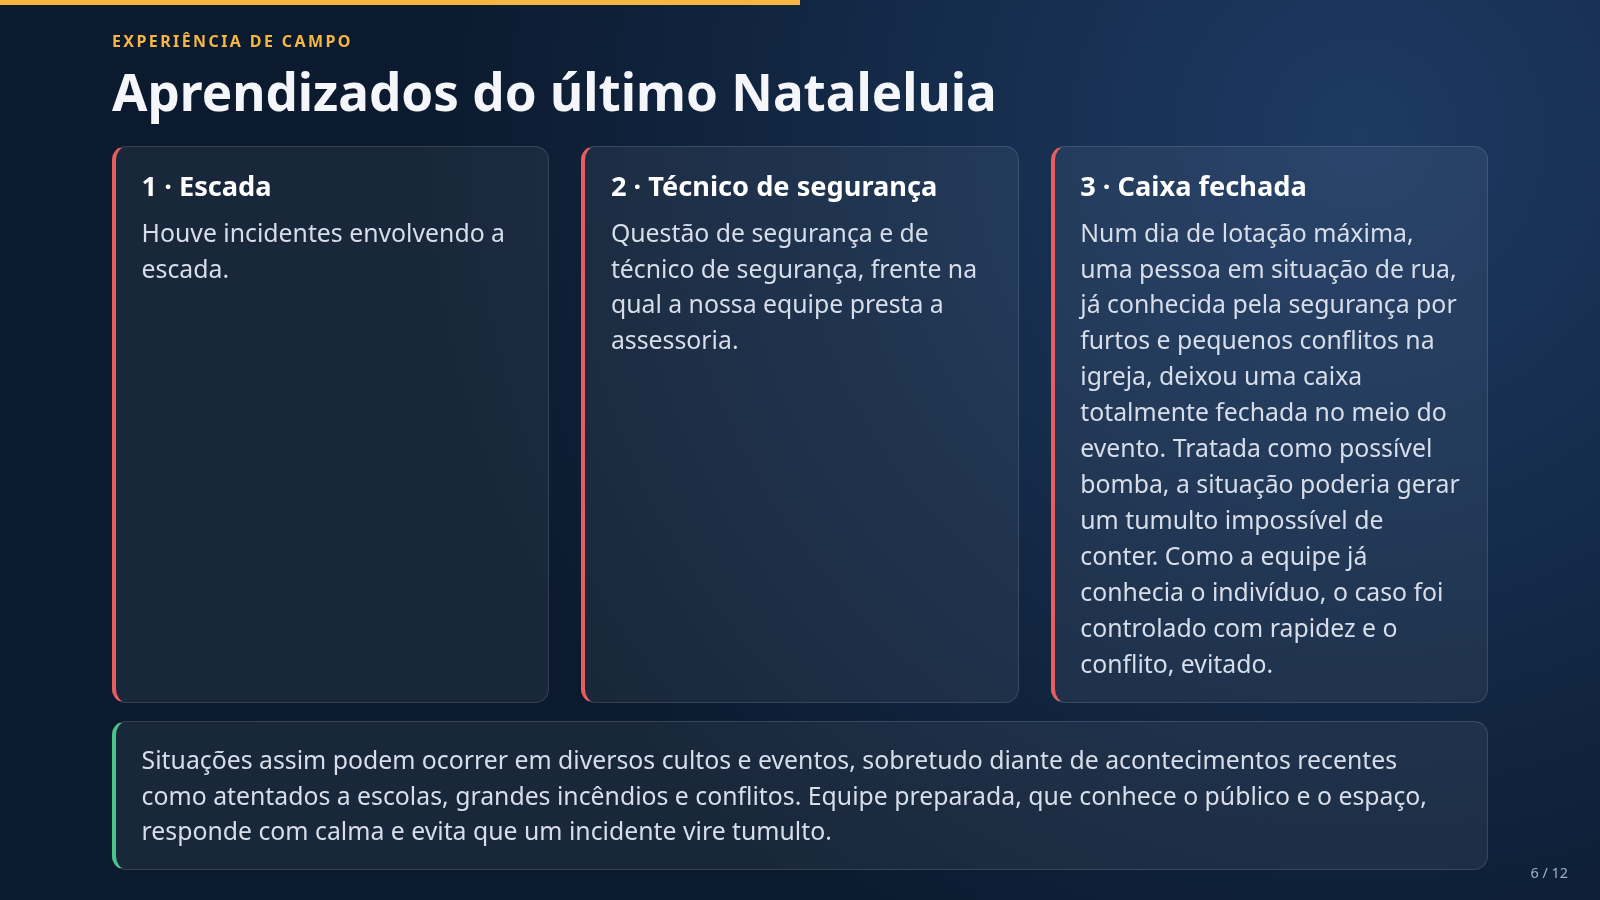
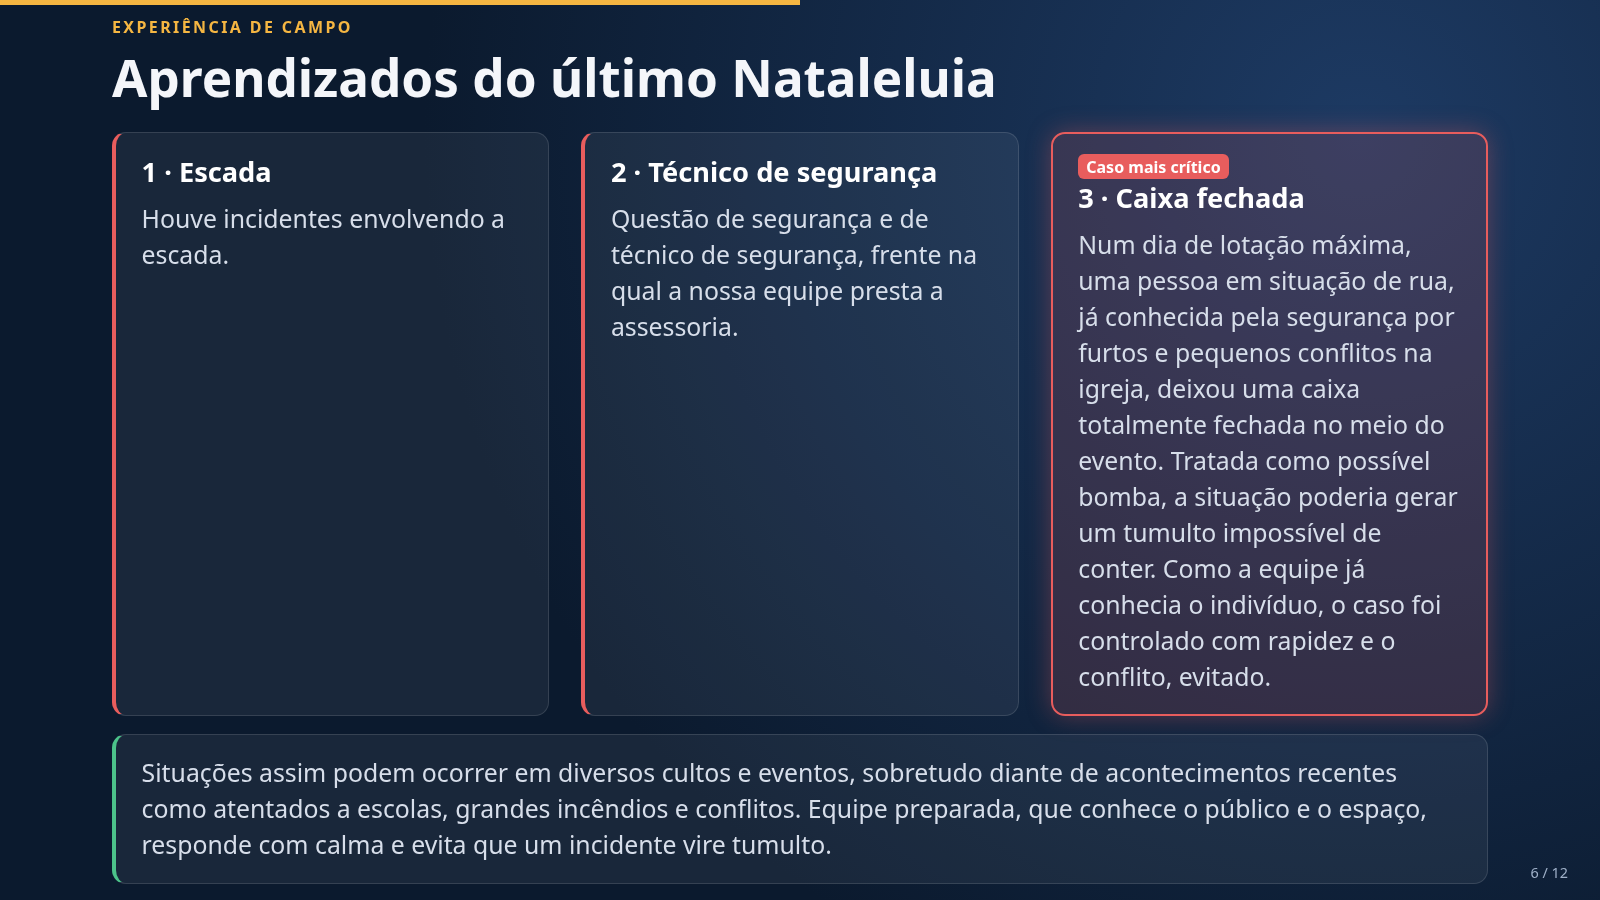
Destaque caixa + estimativa Celebre por analogia

diff --git a/index.html b/index.html
@@ -34,14 +34,14 @@ small,.src{font-size:clamp(.75rem,1.3vw,.95rem);color:#9fb0c8}.src a{color:#9fc3
 <section class="s" id="publico"><div class="k">Dimensão do desafio</div><h2>Estimativa de público</h2><div class="g">
 <div class="c"><b>Nataleluia 2025</b><div class="big">17 mil+</div><p>mais de 17 mil de público, expectativa divulgada (5 noites)</p><p class="src">Fontes: <a href="https://clubediskingressos.com.br/blog/espet%C3%A1culos/nataleluia-2025-%E2%80%9Cum-natal-de-liberdade%E2%80%9D-emociona-curitiba-com-hist%C3%B3ria-inspirada-em-fatos-reais" target="_blank">Clube Disk Ingressos, 09/12/2025</a></p></div>
 <div class="c"><b>Nataleluia 2024</b><div class="big">25 mil+</div><p>expectativa divulgada de público presencial</p><p class="src">Fonte: <a href="https://www.bandab.com.br/cultura/agenda-cultural-curitiba/nataleluia-2024-numeros-circenses-programacao/" target="_blank">Banda B, 20/12/2024</a></p></div>
-<div class="c"><b>Celebre 2026</b><div class="big" style="font-size:clamp(1.4rem,3vw,2.2rem)">A confirmar com a igreja</div><p>Entrada gratuita, sem inscrição, das 9h às 17h no estacionamento da PIB</p><p>Festa anual de aniversário: feira gastronômica, bazar, outlet, empório e apresentações musicais (<a href="https://pibcuritiba.org.br/celebre24/" target="_blank">pibcuritiba.org.br/celebre24</a>)</p><p class="src">Fonte: <a href="https://pibcuritiba.org.br/celebre-2026-um-dia-de-comunhao-sabores-e-alegria-no-aniversario-da-pib-curitiba/" target="_blank">pibcuritiba.org.br</a></p></div></div></section>
+<div class="c"><b>Celebre 2026</b><div class="big" style="font-size:clamp(1.4rem,3vw,2.2rem)">+17 mil (estimativa)</div><p>Sem dados oficiais; com base na expectativa divulgada do Nataleluia, estimativa semelhante: mais de 17 mil. Estimativa por analogia, não é dado oficial. <b>A confirmar com a igreja.</b></p><p>Entrada gratuita, sem inscrição, das 9h às 17h no estacionamento da PIB</p><p>Festa anual de aniversário: feira gastronômica, bazar, outlet, empório e apresentações musicais (<a style="color:#9cc3ff" href="https://pibcuritiba.org.br/celebre24/" target="_blank">pibcuritiba.org.br/celebre24</a>)</p><p class="src">Fonte: <a href="https://pibcuritiba.org.br/celebre-2026-um-dia-de-comunhao-sabores-e-alegria-no-aniversario-da-pib-curitiba/" target="_blank">pibcuritiba.org.br</a></p></div></div></section>
 
 <section class="s" id="adendo"><div class="k">Adendo</div><h2>O que aconteceu no último Nataleluia</h2><div class="c warn"><p>No Nataleluia passado houve contratempos pontuais: <b>escada</b>, <b>técnico de segurança/aprovação</b> e <b>multa</b>.</p></div><div class="c ok" style="margin-top:2vh"><p>Com esta parceria, esses pontos são tratados antes do evento, para que não se repitam.</p></div></section>
 
 <section class="s" id="aprendizados"><div class="k">Experiência de campo</div><h2>Aprendizados do último Nataleluia</h2><div class="g">
 <div class="c warn"><b>1 · Escada</b><p>Houve incidentes envolvendo a escada.</p></div>
 <div class="c warn"><b>2 · Técnico de segurança</b><p>Questão de segurança e de técnico de segurança, frente na qual a nossa equipe presta a assessoria.</p></div>
-<div class="c warn"><b>3 · Caixa fechada</b><p>Num dia de lotação máxima, uma pessoa em situação de rua, já conhecida pela segurança por furtos e pequenos conflitos na igreja, deixou uma caixa totalmente fechada no meio do evento. Tratada como possível bomba, a situação poderia gerar um tumulto impossível de conter. Como a equipe já conhecia o indivíduo, o caso foi controlado com rapidez e o conflito, evitado.</p></div></div>
+<div class="c warn" style="border:2px solid #e85d5d;background:rgba(232,93,93,.16);box-shadow:0 0 24px rgba(232,93,93,.35)"><span class="tag">Caso mais crítico</span><b>3 · Caixa fechada</b><p>Num dia de lotação máxima, uma pessoa em situação de rua, já conhecida pela segurança por furtos e pequenos conflitos na igreja, deixou uma caixa totalmente fechada no meio do evento. Tratada como possível bomba, a situação poderia gerar um tumulto impossível de conter. Como a equipe já conhecia o indivíduo, o caso foi controlado com rapidez e o conflito, evitado.</p></div></div>
 <div class="c ok" style="margin-top:2vh"><p>Situações assim podem ocorrer em diversos cultos e eventos, sobretudo diante de acontecimentos recentes como atentados a escolas, grandes incêndios e conflitos. Equipe preparada, que conhece o público e o espaço, responde com calma e evita que um incidente vire tumulto.</p></div></section>
 
 <section class="s" id="dor"><div class="k">O problema real</div><h2>Como treinar a saída de emergência?</h2><div class="g">
